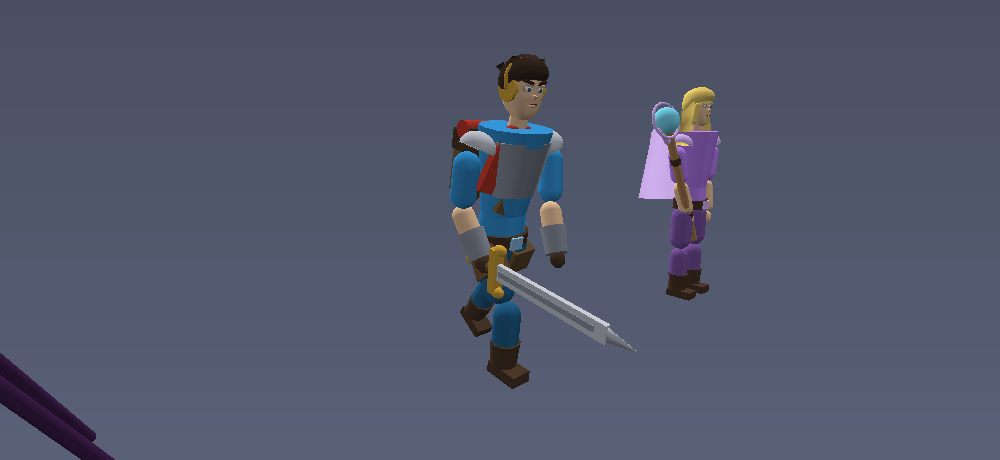
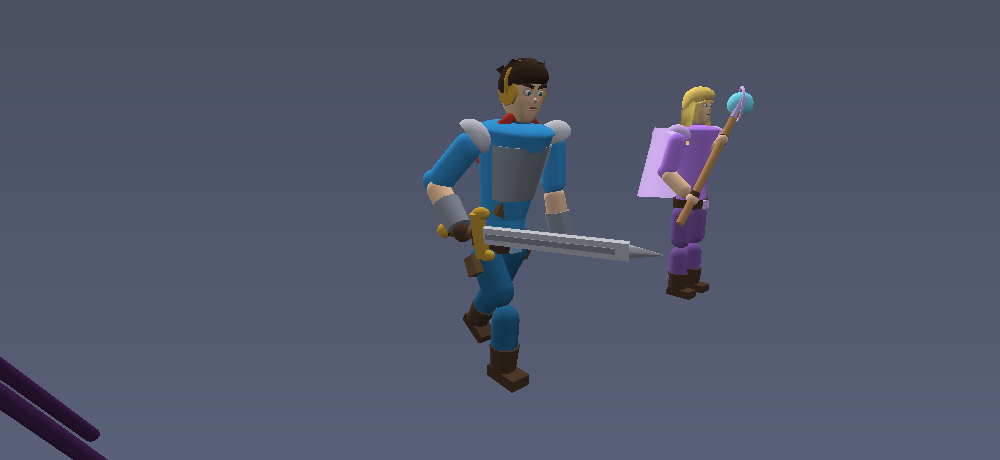
Бег с отталкиванием, шарф на плечах, рюкзак не выглядывает
1. «Ножками дрыгает». Фаза шага гналась от ВРЕМЕНИ с фиксированной
   частотой (2.55 цикла/с), пока тело летело со скоростью 11.13 ед/с:
   стопа проскальзывала по земле в 3.2 раза. Теперь фаза привязана к
   пройденному пути (STEP_LENGTH), а сглаживание ног усилено — оно не
   успевало за частотой и срезало амплитуду втрое. Проскальзывание 1.1x.
   Прирост пути ограничен MAX_STEP_ADVANCE: иначе телепорт после спящей
   вкладки прокручивал фазу на несколько циклов.

2. Красное у шеи. Кольцо шарфа сидело выше воротника (до y=2.78) и
   охватывало голую шею, торча над плечами двумя красными пятнами.
   Опущено на плечевой пояс и расширено.

3. Коричневое спереди. Рюкзак выглядывал углом короба из-за силуэта под
   ~40 градусов. Сборка сужена, прижата к позвоночнику и выставлена по
   высоте так, чтобы низ не свисал в узкую часть корпуса, а скатка не
   лезла к плечам. Со спины мешок по-прежнему читается.

Мутации: фаза шага от времени, сглаживание ног 18, шарф на прежней
высоте — каждая роняет тесты.

diff --git a/src/render/Animator.js b/src/render/Animator.js
@@ -58,6 +58,15 @@ const STAFF_POSES = {
     },
 };
 
+// Длина шага, ЗАМЕРЕННАЯ по размаху стопы в мире (не теоретические
+// 2*L*sin(a) = 1.89: нога идёт по дуге, и часть хода съедает сгиб колена).
+// По ней частота шага привязывается к скорости, чтобы стопа стояла на
+// земле, а не скользила.
+const STEP_LENGTH = 1.2;
+
+// Предел прироста пути за секунду: чуть выше боевой скорости (11.13 ед/с).
+const MAX_STEP_ADVANCE = 14;
+
 const CARRY_WRIST_X = 0.30;
 const CARRY_WRIST_Z = 0.10;
 const CAST_SECONDS = 0.8;
@@ -130,6 +139,9 @@ export class Animator {
             death: 0,      // 0..1 прогресс падения
             speed: 0,      // сглаженная скорость бега для микса поз
             lastPosition: model.root.position.clone(),
+            // Пройденный путь: по нему считается фаза шага, иначе стопа
+            // скользит по земле («ноги дрыгаются, а не отталкиваются»).
+            distance: 0,
         });
     }
 
@@ -177,6 +189,10 @@ export class Animator {
             state.lastPosition.copyFrom(unit.mesh.position);
             const instantSpeed = dt > 0 ? moved / dt : 0;
             state.speed = damp(state.speed, instantSpeed, 12, dt);
+            // Копим путь только за правдоподобный кадр. Если вкладка спала,
+            // юнит «телепортируется» на десяток единиц — без ограничения
+            // такой скачок прокручивал бы фазу шага на несколько циклов.
+            state.distance += Math.min(moved, MAX_STEP_ADVANCE * dt);
 
             state.swing = Math.max(0, state.swing - dt / state.swingSpan);
             state.hitFlash = Math.max(0, state.hitFlash - dt / 0.3);
@@ -203,7 +219,11 @@ export class Animator {
 
         // Бег: чем быстрее, тем шире шаг. runBlend гасит покой на месте.
         const runBlend = Math.min(1, state.speed / 6);
-        const stride = t * (6 + state.speed * 0.9);
+        // Фаза шага привязана к ПРОЙДЕННОМУ ПУТИ, а не ко времени: раньше
+        // ноги махали с фиксированной частотой (2.55 цикла/с), пока тело
+        // летело со скоростью 11 ед/с, и стопа проскальзывала в 3.2 раза.
+        // За цикл 2*PI тело проезжает ровно STEP_LENGTH.
+        const stride = t * 1.5 + (state.distance / STEP_LENGTH) * Math.PI * 2;
         const breathe = Math.sin(t * 1.7) * 0.035;
 
         // Удар делится на три фазы, как в рисованной анимации: медленный
@@ -280,10 +300,14 @@ export class Animator {
         // Ноги: противофазный шаг; при ударе — выпад вперёд.
         const legSwing = Math.sin(stride) * 0.85 * runBlend;
         const lunge = attacking ? (strike * 0.5 - windup * 0.12) * (1 - recover) : 0;
-        rig.hipL.rotation.x = damp(rig.hipL.rotation.x, legSwing - lunge, 18, dt);
-        rig.hipR.rotation.x = damp(rig.hipR.rotation.x, -legSwing + lunge, 18, dt);
-        rig.kneeL.rotation.x = damp(rig.kneeL.rotation.x, Math.max(0, -legSwing) * 1.1, 18, dt);
-        rig.kneeR.rotation.x = damp(rig.kneeR.rotation.x, Math.max(0, legSwing) * 1.1, 18, dt);
+        // На бегу ноги должны идти ТОЧНО по фазе шага: сглаживание (18)
+        // не успевало за частотой и срезало амплитуду втрое — стопа
+        // проскальзывала. Чем быстрее бег, тем жёстче следование.
+        const legRate = 18 + runBlend * 40;
+        rig.hipL.rotation.x = damp(rig.hipL.rotation.x, legSwing - lunge, legRate, dt);
+        rig.hipR.rotation.x = damp(rig.hipR.rotation.x, -legSwing + lunge, legRate, dt);
+        rig.kneeL.rotation.x = damp(rig.kneeL.rotation.x, Math.max(0, -legSwing) * 1.1, legRate, dt);
+        rig.kneeR.rotation.x = damp(rig.kneeR.rotation.x, Math.max(0, legSwing) * 1.1, legRate, dt);
 
         // Посох Елена держит ДВУМЯ руками, поэтому левая не машет маятником,
         // а остаётся на древке: её поза строится от rest, а не от нуля.

diff --git a/src/render/models.js b/src/render/models.js
@@ -182,13 +182,16 @@ export function createHumanoid(scene, { id, color = '#3498db', weapon = 'sword',
         scabbardTip.material = gold;
 
         // Красный шарф — самая узнаваемая деталь силуэта Рюдо.
+        // Кольцо лежит НА плечевом поясе (его верх 2.60), а не парит вокруг
+        // голой шеи: на y=1.12 оно поднималось до 2.78 и торчало над плечами
+        // двумя красными пятнами по бокам головы.
         const scarf = track(MeshBuilder.CreateTorus(`${id}_scarf`, {
-            diameter: 0.4, thickness: 0.12, tessellation: 12,
+            diameter: 0.46, thickness: 0.1, tessellation: 12,
         }, scene));
         scarf.parent = torso;
-        scarf.position.set(0, 1.12, 0.02);
+        scarf.position.set(0, 1.03, 0.01);
         scarf.rotation.x = Math.PI / 2;
-        scarf.scaling.z = 0.8;
+        scarf.scaling.z = 0.78;
         scarf.material = scarfMat;
 
         // Свисающий конец шарфа.
@@ -213,25 +216,25 @@ export function createHumanoid(scene, { id, color = '#3498db', weapon = 'sword',
         // читалось как «рюкзак просвечивает через живот». На высоте лопаток
         // корпус шире, и тот же выступ остаётся закрыт силуэтом.
         const pack = track(MeshBuilder.CreateBox(`${id}_pack`, {
-            width: 0.34, height: 0.34, depth: 0.14,
+            width: 0.26, height: 0.26, depth: 0.11,
         }, scene));
         pack.parent = torso;
-        pack.position.set(0, 0.86, -0.26);
+        pack.position.set(0, 0.83, -0.29);
         pack.material = packMat;
 
         const packFlap = track(MeshBuilder.CreateBox(`${id}_packFlap`, {
-            width: 0.36, height: 0.12, depth: 0.16,
+            width: 0.28, height: 0.12, depth: 0.14,
         }, scene));
         packFlap.parent = torso;
-        packFlap.position.set(0, 1.0, -0.26);
+        packFlap.position.set(0, 0.95, -0.29);
         packFlap.material = leather;
 
         // Скатка лежит на клапане, а не над плечами.
         const bedroll = track(MeshBuilder.CreateCylinder(`${id}_bedroll`, {
-            height: 0.36, diameter: 0.12, tessellation: 10,
+            height: 0.24, diameter: 0.1, tessellation: 10,
         }, scene));
         bedroll.parent = torso;
-        bedroll.position.set(0, 1.07, -0.26);
+        bedroll.position.set(0, 1.0, -0.28);
         bedroll.rotation.z = Math.PI / 2;
         bedroll.material = scarfMat;
 
@@ -241,7 +244,7 @@ export function createHumanoid(scene, { id, color = '#3498db', weapon = 'sword',
                 width: 0.08, height: 0.42, depth: 0.05,
             }, scene));
             packStrap.parent = torso;
-            packStrap.position.set(0.15 * side, 0.86, -0.21);
+            packStrap.position.set(0.11 * side, 0.83, -0.25);
             packStrap.rotation.x = -0.12;
             packStrap.material = leather;
         }
